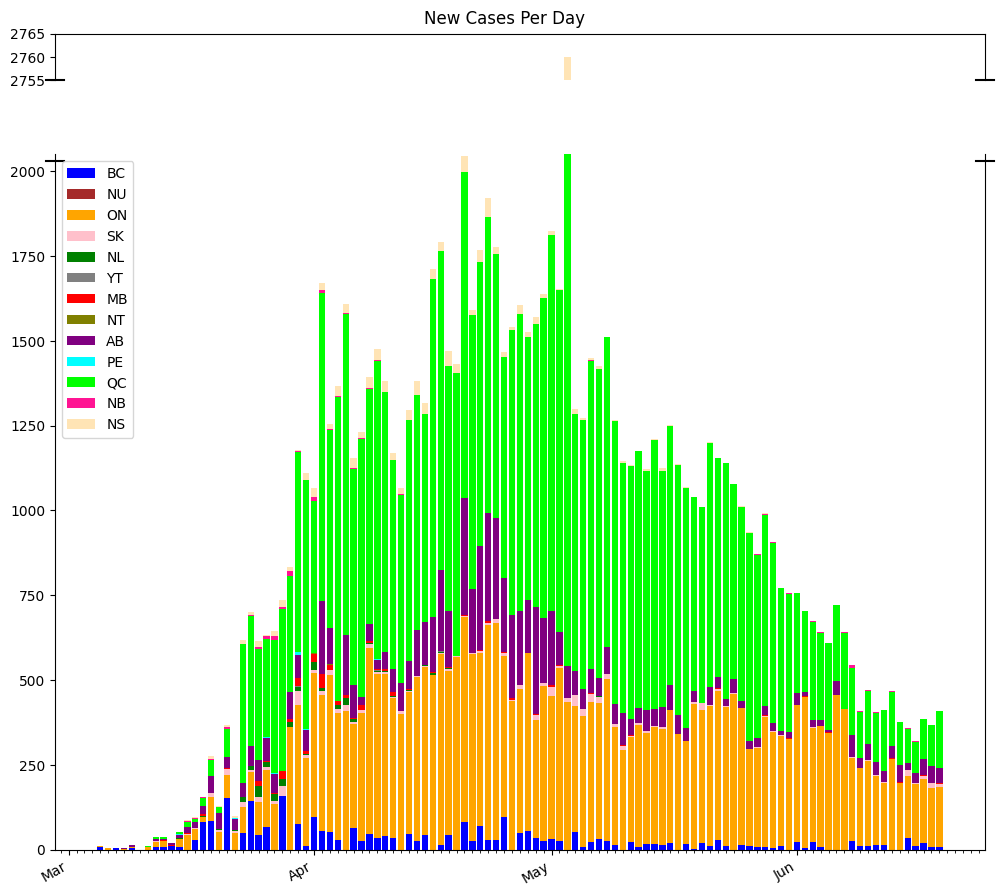
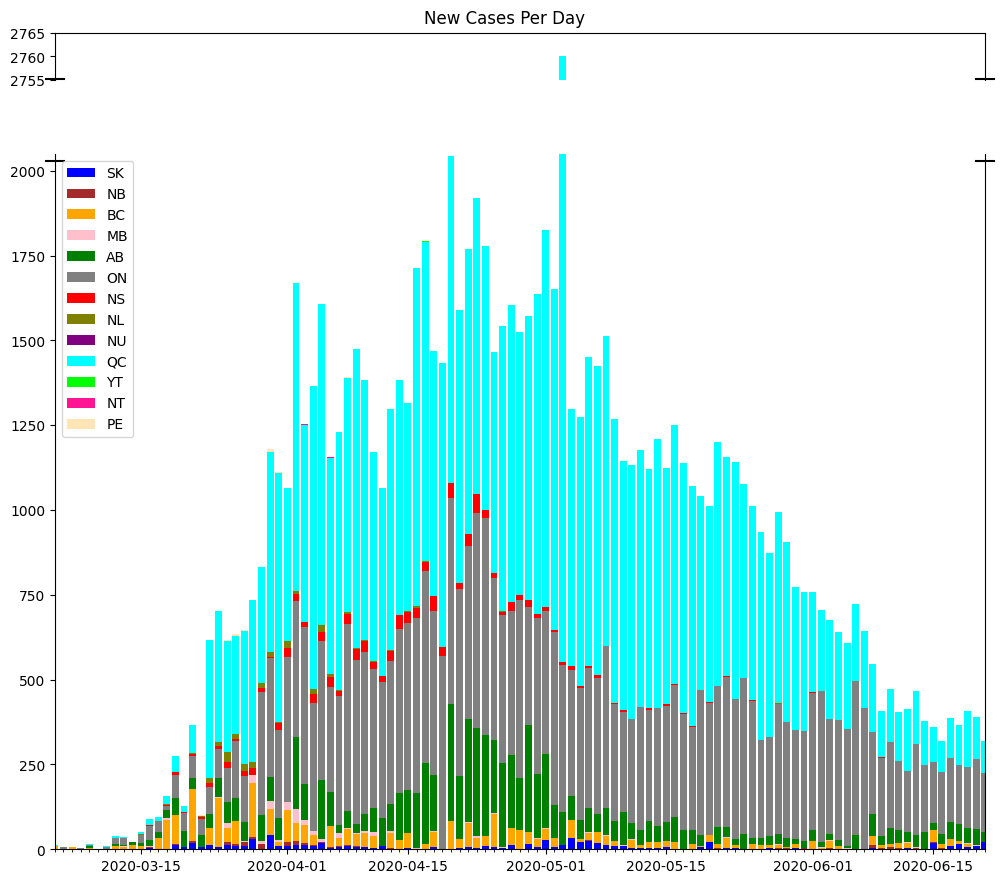
Add docstring and comments.

diff --git a/province_wise_plots.py b/province_wise_plots.py
@@ -1,3 +1,5 @@
+from typing import List, Dict, Tuple
+from pandas import Timestamp
 import numpy as np
 import matplotlib.ticker
 import matplotlib.pyplot as plt
@@ -5,7 +7,10 @@ import matplotlib.dates as mdates
 from utils import *
 
 
-def init_data_xaxis():
+def init_date_xaxis() -> None:
+    """Initialize the x axis and set the plot image size to 12 inch."""
+
+    # Set the unit of x axis to month.
     months = mdates.MonthLocator()
     days = mdates.DayLocator()
 
@@ -13,62 +18,152 @@ def init_data_xaxis():
     plt.gca().xaxis.set_major_formatter(mdates.DateFormatter("%b"))
     plt.gca().xaxis.set_minor_locator(days)
 
+    # Rotate the date ticks.
     plt.gcf().autofmt_xdate()
+
+    # Clear previous legend.
+    legend = plt.gca().get_legend()
+    if legend is not None:
+        legend.remove()
+
     plt.gcf().set_size_inches(12, 12)
 
 
-def make_data_list_and_max_total(data, provinces, dates):
-    max_total = 0
+def make_data_list_and_max_total(
+        data: Dict[Tuple[Timestamp, str], int],
+        provinces: List[str],
+        dates: List[Timestamp]) -> Tuple[List[List[int]], int]:
+    """Convert data dictionary to matrix.
+
+    Convert a data dictionary to a matrix. The matrix is a 2D matrix where the # of rows
+    is the # of provinces and the # of columns is the # of dates.
+
+    Args:
+        data: The data dictionary which keys are date-province tuples.
+        provinces: All provinces in the data dictionary.
+        dates: All dates in the data dictionary.
+
+    Returns:
+        y: The 2D data matrix.
+        y_tick_max: The maximum y axis tick value in log scale.
+    """
+    y_tick_max = 0
     y = np.zeros((len(provinces), len(dates)), dtype=int).tolist()
     for k, v in data.items():
         date, province = k
         y[provinces.index(province)][dates.index(date)] = v
-        max_total = max(max_total, v)
-    max_total = (int(str(max_total)[0]) + 1) * 10 ** (len(str(max_total)) - 1)
+        y_tick_max = max(y_tick_max, v)
+    y_tick_max = (int(str(y_tick_max)[0]) + 1) * 10 ** (len(str(y_tick_max)) - 1)
 
-    return y, max_total
+    return y, y_tick_max
 
 
-def make_line_plot_over_time(title, data, provinces, dates, filename):
-    y, max_total = make_data_list_and_max_total(data, provinces, dates)
+def remove_zeros(
+        y: List[List[int]],
+        dates: List[Timestamp]) -> Tuple[List[List[int]], List[Timestamp]]:
+    """Remove all-zero columns in the 2D data matrix.
 
-    found_non_zero = False
-    for i in range(0, len(dates)):
-        for j in range(0, len(provinces)):
-            if y[j][i] != 0:
-                y = [l[i:] for l in y]
-                dates = dates[i:]
-                found_non_zero = True
-                break
+    Cut all-zero columns at the beginning and the end of the data matrix. And
+    remove dates that correspond to a all-zero column in the date list.
 
-        if found_non_zero:
-            break
+    Args:
+        y: The 2D data matrix.
+        dates: The date list.
 
+    Returns:
+        y: Sliced 2D data matrix.
+        dates: Sliced dates List."""
+    y = np.array(y)
+    while not np.any(y[:, 0]):
+        y = y[:, 1:]
+        dates = dates[1:]
+
+    while not np.any(y[:, -1]):
+        y = y[:, :-1]
+        dates = dates[:-1]
+
+    return y.tolist(), dates
+
+
+def make_line_plot_over_time(
+        title: str,
+        data: Dict[Tuple[Timestamp, str], int],
+        provinces: List[str],
+        dates: List[Timestamp],
+        filename: str) -> None:
+    """Create a line plot.
+
+    Make a line plot for the given data and dates and save the image to the given file name.
+    The y axis is shown in log scale.
+
+    Args:
+        title: Title of the plot.
+        data: The data dictionary where keys are date-province tuples.
+        provinces: List of all province names.
+        dates: List of all dates.
+        filename: The file name to save.
+
+    Returns:
+        None
+    """
+    init_date_xaxis()
+
+    y, y_tick_max = make_data_list_and_max_total(data, provinces, dates)
+    y, dates = remove_zeros(y, dates)
+
+    labels = []
+    handles = []
     for i, province in enumerate(provinces):
-        plt.plot(dates, y[i], label=PROVINCE_ABBR[province], color=COLORS[i])
+        labels.append(PROVINCE_ABBR[province])
+        handles.append(plt.plot(dates, y[i], color=COLORS[i])[0])
 
+    # Generate y axis ticks.
     y_ticks = [1]
-    while y_ticks[-1] * 10 < max_total:
+    while y_ticks[-1] * 10 < y_tick_max:
         y_ticks.append(y_ticks[-1] * 10)
-    y_ticks.append(max_total)
-
-    init_data_xaxis()
+    y_ticks.append(y_tick_max)
 
     plt.yscale('log')
 
+    # Disable the scientific notation on y axis.
     plt.gca().yaxis.set_major_formatter(matplotlib.ticker.ScalarFormatter())
     plt.gca().ticklabel_format(useOffset=False, style='plain', axis='y')
-    plt.ylim(top=max_total)
+
+    # Eliminate the margin on the x axis.
+    plt.margins(x=0)
+
+    plt.ylim(top=y_tick_max)
     plt.gca().set_yticks(y_ticks)
 
-    plt.legend()
+    plt.legend(handles, labels)
     plt.title(title)
     plt.savefig(filename, bbox_inches='tight')
 
 
-def make_bar_chart_over_time(title, data, provinces, dates, filename):
-    y, _ = make_data_list_and_max_total(data, provinces, dates)
+def make_bar_chart_over_time(
+        title: str,
+        data: Dict[Tuple[Timestamp, str], int],
+        provinces: List[str],
+        dates: List[Timestamp],
+        filename: str) -> None:
+    """Create a bar chart.
 
+    Create and a bar chart with given data and dates and save the image to the given file name.
+
+    Args:
+        title: Title of the plot.
+        data: The data dictionary where keys are date-province tuples.
+        provinces: List of all province names.
+        dates: List of all dates.
+        filename: The file name to save.
+
+    Returns:
+        None
+    """
+    y, _ = make_data_list_and_max_total(data, provinces, dates)
+    y, dates = remove_zeros(y, dates)
+
+    # Start from the day which total value is large than 10.
     for i in range(0, len(dates)):
         s = 0
         for j in range(0, len(provinces)):
@@ -79,23 +174,34 @@ def make_bar_chart_over_time(title, data, provinces, dates, filename):
             dates = dates[i:]
             break
 
-    fig, axs = plt.subplots(2, 1, sharex=True, gridspec_kw={'height_ratios': [1, 15]})
+    fig, axs = plt.subplots(2, 1, sharex='all', gridspec_kw={'height_ratios': [1, 15]})
+    init_date_xaxis()
 
+    labels = []
+    handles = []
     bottoms = np.zeros(len(dates))
     for a, province, color in zip(y, provinces, COLORS):
-        for ax in axs:
-            ax.bar(dates, a, label=PROVINCE_ABBR[province], color=color, bottom=bottoms)
+        for i, ax in enumerate(axs):
+            h = ax.bar(dates, a, label=PROVINCE_ABBR[province], color=color, bottom=bottoms)[0]
+            if i == 1:
+                handles.append(h)
+                labels.append(PROVINCE_ABBR[province])
         bottoms += a
 
-    sums = sorted(bottoms.tolist())
+    # Eliminate the margin on the x axis.
+    plt.xlim(dates[0], dates[-1])
 
+    # Find out the break position and set the limits of y axis.
+    sums = np.sort(bottoms)
     axs[0].set_ylim(sums[-1] - 5, sums[-1] + 5)
     axs[1].set_ylim(0, sums[-2] + 5)
 
+    # Hide the axis between the break.
     axs[0].spines['bottom'].set_visible(False)
     axs[0].tick_params(axis='x', which='both', bottom=False)
     axs[1].spines['top'].set_visible(False)
 
+    # Draw the break tick.
     break_len = 0.010
     left_break_x = (-break_len, break_len)
     right_break_x = (1 - break_len, 1 + break_len)
@@ -109,16 +215,16 @@ def make_bar_chart_over_time(title, data, provinces, dates, filename):
     axs[1].plot(left_break_x, bottom_break_y, **kwargs)
     axs[1].plot(right_break_x, bottom_break_y, **kwargs)
 
-    init_data_xaxis()
-    plt.legend(loc='upper left')
+    plt.legend(handles, labels, loc='upper left')
     plt.suptitle(title, y=0.90)
     plt.savefig(filename, bbox_inches='tight')
 
 
-def main():
-    data, dates, provinces = get_csv()
+def main() -> None:
+    """Main function."""
 
-    data = data[(data['prname'] != 'Canada') & (data["prname"] != "Repatriated travellers")].fillna(0)
+    data, dates, provinces = get_csv()
+    data = data[data['prname'] != 'Canada']
 
     num_total = data.groupby(['date', 'prname']).sum()['numtotal'].to_dict()
     make_line_plot_over_time("Total Cases", num_total, provinces, dates, 'total_cases.png')

diff --git a/utils.py b/utils.py
@@ -41,7 +41,7 @@ CSV_URL = "https://health-infobase.canada.ca/src/data/covidLive/covid19.csv"
 def get_csv():
     data = pd.read_csv(CSV_URL)
     data['date'] = pd.to_datetime(data['date'], format="%d-%m-%Y")
-    data = data[(data['prname'] != 'Canada') & (data["prname"] != "Repatriated travellers")].fillna(0)
+    data = data[data["prname"] != "Repatriated travellers"].fillna(0)
 
     dates = sorted(list(set(data['date'])))
     provinces = list(set(data['prname']))
